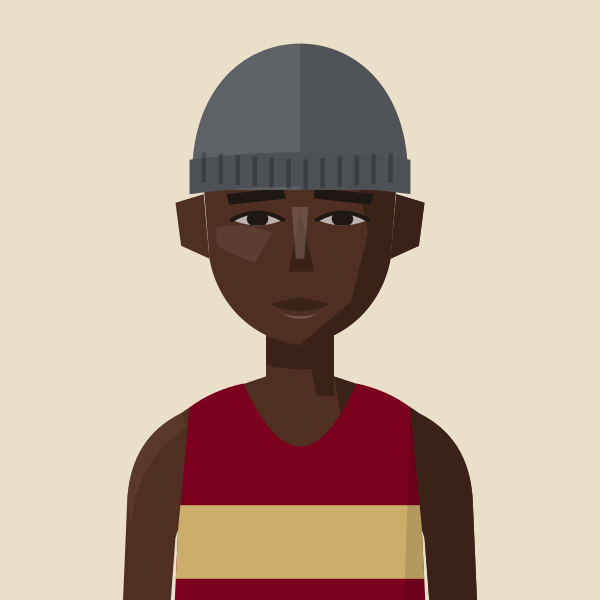
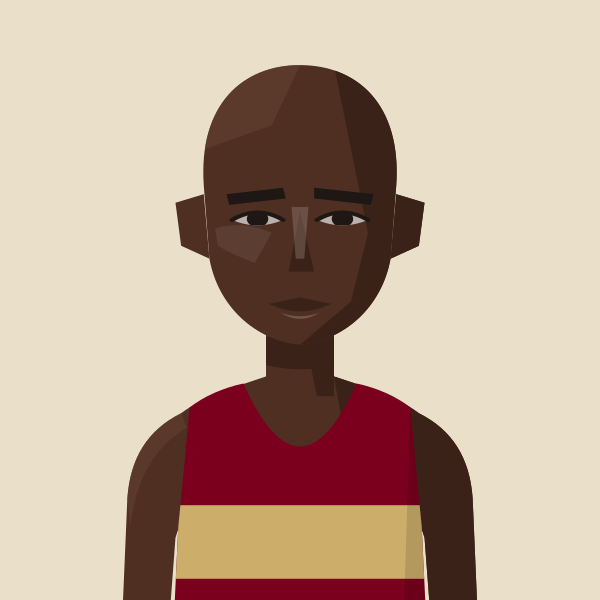
Paskar Owor: no beanie, shaved head
Claude-Session: https://claude.ai/code/session_01MgmDWhFqnSSnP4iBLKXUZC

Changed region(s): [[0.3, 0.06, 0.69, 0.33]]

diff --git a/files/index.html b/files/index.html
@@ -579,7 +579,7 @@ return m;})();
 const portraitFile=(name,club)=>{const k=normalizeNameForCompare(name||'').replace(/\s*\([^)]*\)$/,'');const a=PORTRAITS[k];if(a&&a.club===club)return a.file;const b=PORTRAITS[k+'@'+club];return b?b.file:null;};
 // Athlete header figure: superstar portrait if we have one, else a grey runner in the club vest, else the plain vest icon
 // Changes whenever any portrait changes (set by tools/build_og.py), so browsers fetch fresh images instead of old cached ones
-const PORTRAIT_V='0f0aea7a';
+const PORTRAIT_V='af897bc9';
 const AthletePortrait=({name,club,w,fill,onClick})=>{const[failed,setFailed]=useState(false);const file=portraitFile(name,club);const src=file?`/portraits/athletes/${file}.svg?v=${PORTRAIT_V}`:PORTRAIT_CLUBS.has(club)?`/portraits/clubs/${club.replace(/\//g,'').replace(/&/g,'and')}.svg?v=${PORTRAIT_V}`:null;if(!src||failed)return<div onClick={onClick} className={onClick?'cursor-pointer':''}><ClubShield club={club} size={w}/></div>;const h=Math.round(w*148/126),ih=Math.round(w*1.4);if(fill)return<div onClick={onClick} className="cursor-pointer" style={{alignSelf:'stretch',minHeight:h,aspectRatio:'126 / 148',flexShrink:0,position:'relative',borderRadius:4,overflow:'hidden'}}><img src={src} alt={file?`Portrait of ${name.replace(/\s*\([^)]*\)$/,'')}`:`Runner in ${CLUBS[club]?.name||club} vest`} style={{position:'absolute',top:0,left:0,display:'block',width:'100%',height:'auto'}} onError={()=>setFailed(true)}/></div>;return<div style={{width:w,height:h,borderRadius:4,overflow:'hidden',flexShrink:0}}><img src={src} alt={file?`Portrait of ${name.replace(/\s*\([^)]*\)$/,'')}`:`Runner in ${CLUBS[club]?.name||club} vest`} width={w} height={ih} style={{display:'block',width:w,height:ih}} onError={()=>setFailed(true)}/></div>;};
 const getClubVestSvg=(club)=>{
   const p="M3 0 L6 0 Q7 4 10 5 Q13 4 14 0 L17 0 L17 20 L3 20 Z";

diff --git a/tools/gen_portraits.py b/tools/gen_portraits.py
@@ -400,7 +400,7 @@ save("sanderson", figure("G&G", skin=1, hair="quiff", hair_colour="dark brown", 
 save("fyfe", figure("BEL", skin=2, hair="tousled", hair_colour="dark brown", facial="stubble"))
 save("hair_tousled", figure("HOL", skin=2, hair="tousled", hair_colour="mid brown"))
 save("saron", figure("BEL", skin=4, hair="ponytail", hair_colour="black"))
-save("owor", figure("BEL", skin=6, hair="buzz", hair_colour="black", beanie="#5E6266"))
+save("owor", figure("BEL", skin=6, hair=None))
 save("cap_beanie", figure("HOL", skin=2, hair="crop", hair_colour="mid brown", beanie="#5E6266"))
 save("ruby", figure("H/W", skin=1, hair="ponytail", hair_colour="blonde"))
 save("foster", figure("G&G", skin=1, hair="crop", hair_colour="dark brown", facial="stubble"))
